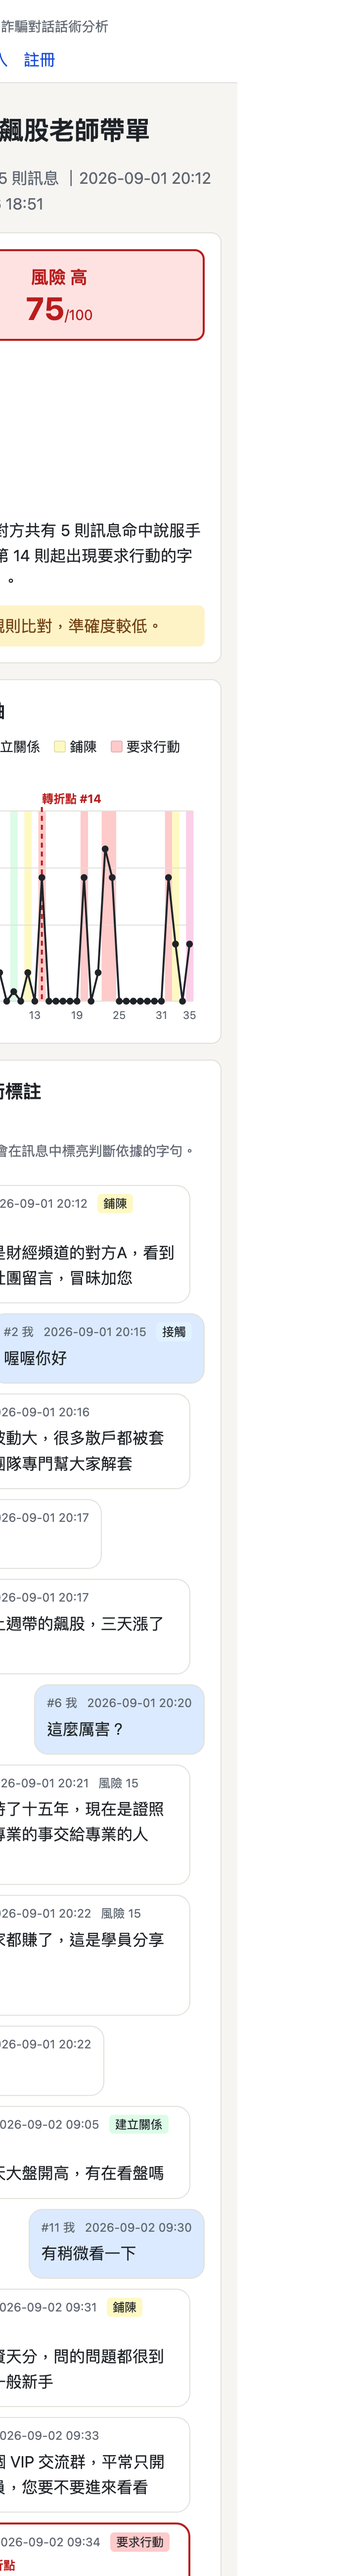
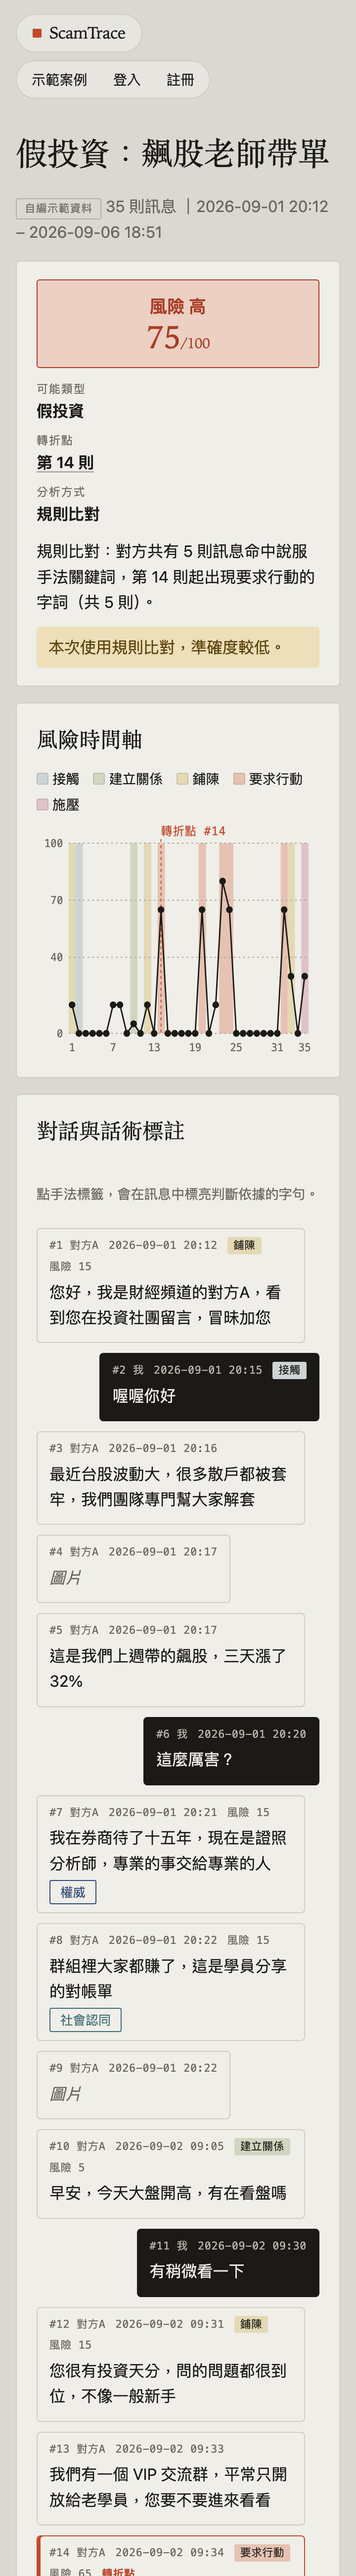
介面改為 Antimetal 風格
暖灰底色、襯線標題、等寬小標籤、虛線分隔與大地色系；首頁改為兩欄排版，
以示範案例的實際風險曲線與標註為主視覺；手法顏色改為同色系；更新首頁與結果頁截圖。

diff --git a/static/style.css b/static/style.css
@@ -194,3 +194,176 @@ label.radio, label.check { display: flex; gap: 8px; align-items: center; margin-
   .bubble { max-width: 95%; }
   .hero h1 { font-size: 1.6rem; }
 }
+
+/* ==========================================================
+   介面風格：參考 Antimetal
+   暖灰石材底色、襯線標題與內文、等寬小標籤、細線與虛線分隔、
+   大地色（鐵鏽橘、橄欖綠、芥末黃）為重點色、黑色小膠囊按鈕
+   ========================================================== */
+:root {
+  --bg: #d9d8d1;
+  --surface: #e7e6e0;
+  --paper: #efeee8;
+  --text: #1c1a17;
+  --muted: #6a675f;
+  --line: #bdbbb2;
+  --dash: #b3b1a8;
+  --accent: #b8442a;
+  --ink: #1c1a17;
+  --rust: #c2492b;
+  --olive: #6f7430;
+  --mustard: #c99419;
+  --danger: #b8442a;
+  --low: #5d6328; --low-bg: #dfe0c8;
+  --mid: #8a6410; --mid-bg: #ecdfb9;
+  --high: #a83c23; --high-bg: #ecd0c4;
+  --self-bubble: #1c1a17;
+  --other-bubble: #efeee8;
+  --code-bg: #d3d1c8;
+  --stage-contact: #cdd4d4;
+  --stage-rapport: #d2d6c0;
+  --stage-setup: #e3d9b4;
+  --stage-action: #e6c2b2;
+  --stage-pressure: #dfc3c9;
+  --radius: 4px;
+  --serif: "Iowan Old Style", "Songti TC", "Noto Serif TC", "PMingLiU", Georgia, serif;
+  --mono: "SF Mono", ui-monospace, Menlo, Consolas, monospace;
+  font-family: "Inter", system-ui, -apple-system, "PingFang TC", "Noto Sans TC", sans-serif;
+}
+body { background: var(--bg); color: var(--text); }
+a { color: var(--text); text-decoration-color: var(--dash); text-underline-offset: 3px; }
+a:hover { color: var(--accent); }
+h1, h2, h3, .brand, .kpi-value, .risk-badge .risk-score, .error-code, .lead { font-family: var(--serif); font-weight: 400; letter-spacing: -.01em; }
+h1 { font-size: 2rem; }
+h2 { font-size: 1.35rem; }
+.label, .eyebrow, .mono, .table th, .kpi-label, .summary-facts dt, .section-label {
+  font-family: var(--mono); font-size: .72rem; letter-spacing: .08em; text-transform: uppercase; color: var(--muted); font-weight: 400; }
+.label { margin: 0 0 8px; }
+
+/* 導覽列：左品牌、右連結，各自一顆淺色膠囊 */
+.topbar { background: transparent; border: 0; padding: 14px 16px 0; }
+.nav { padding: 0; max-width: 1120px; }
+.brand, .nav-links { background: #e6e5df; border: 1px solid #cfcdc5; border-radius: 999px; }
+.brand { padding: 5px 16px; font-size: 1.05rem; align-items: center; gap: 8px; }
+.brand-dot { width: 9px; height: 9px; border-radius: 1px; background: var(--rust); flex: none; }
+.brand span:not(.brand-dot) { font-family: var(--mono); font-size: .68rem; letter-spacing: .06em; color: var(--muted); }
+.nav-links { padding: 3px; gap: 2px; }
+.nav-links a, .nav-links .linklike { color: var(--text); text-decoration: none; font-size: .88rem; padding: 4px 12px; border-radius: 999px; }
+.nav-links a:hover, .nav-links .linklike:hover { background: #d6d4cc; color: var(--text); }
+.nav-links a:last-of-type:not(:only-of-type) { }
+.footer { border-top: 1px dashed var(--dash); color: var(--muted); font-size: .85rem; }
+
+/* 卡片：淺色平面，細框，不用陰影 */
+.card { background: var(--paper); border: 1px solid #cfcdc5; border-radius: var(--radius); box-shadow: none; padding: 18px 20px; }
+
+/* 按鈕：黑色小膠囊；次要按鈕為四角框線 */
+.btn { background: var(--ink); color: #f3f2ec; border-radius: 999px; padding: 8px 18px; font-size: .9rem; font-weight: 500; }
+.btn:hover { filter: none; background: #3a3631; color: #fff; }
+.btn.secondary, .btn.bracket { position: relative; background: transparent; color: var(--ink); border: 0; border-radius: 0; box-shadow: none;
+  background-image:
+    linear-gradient(var(--ink), var(--ink)), linear-gradient(var(--ink), var(--ink)),
+    linear-gradient(var(--ink), var(--ink)), linear-gradient(var(--ink), var(--ink)),
+    linear-gradient(var(--ink), var(--ink)), linear-gradient(var(--ink), var(--ink)),
+    linear-gradient(var(--ink), var(--ink)), linear-gradient(var(--ink), var(--ink));
+  background-repeat: no-repeat;
+  background-size: 6px 1px, 1px 6px, 6px 1px, 1px 6px, 6px 1px, 1px 6px, 6px 1px, 1px 6px;
+  background-position: left top, left top, right top, right top, left bottom, left bottom, right bottom, right bottom; }
+.btn.secondary:hover, .btn.bracket:hover { background-color: #cfcdc5; color: var(--ink); }
+.btn.danger { background: var(--danger); }
+.btn.small { padding: 4px 12px; font-size: .82rem; }
+.linklike { color: var(--text); }
+input[type=text], input:not([type]), input[type=password], input[type=file], textarea, select {
+  border-radius: 3px; border-color: #c4c2b9; background: #f3f2ed; }
+input:focus, textarea:focus, select:focus { outline: none; border-color: var(--ink); box-shadow: 0 0 0 3px #1c1a1720; }
+:focus-visible { outline: 2px solid var(--rust); outline-offset: 2px; }
+.flash, .notice { border-radius: 3px; }
+.notice { background: var(--mid-bg); color: #5e450c; }
+.pill { background: transparent; border: 1px solid var(--dash); border-radius: 2px; color: var(--muted); font-family: var(--mono); font-size: .68rem; letter-spacing: .05em; }
+.level { border-radius: 2px; font-weight: 500; }
+.code { background: var(--code-bg); border-radius: 2px; }
+
+/* 首頁 */
+.intro { display: grid; grid-template-columns: minmax(0, 1fr) minmax(0, 1fr); gap: 48px; align-items: center; padding: 56px 0 56px; }
+.intro h1 { font-size: 2.6rem; line-height: 1.2; margin: 0 0 16px; }
+.lead { font-size: 1.15rem; line-height: 1.65; color: #45423c; margin: 0; }
+.hero-actions { margin-top: 28px; gap: 14px; }
+.intro-chart { margin: 0; }
+.intro-chart svg { width: 100%; height: auto; display: block; }
+.intro-chart .ax line { stroke: #8f8c83; stroke-width: 1; stroke-dasharray: 2 3; }
+.intro-chart .ax .grid { stroke: #b9b7ae; }
+.intro-chart .ax text { font-family: var(--mono); font-size: 10px; fill: #77746b; }
+.intro-chart .ax-title { letter-spacing: .1em; }
+.intro-chart .curve { fill: none; stroke: var(--ink); stroke-width: 1.4; stroke-linejoin: round; }
+.intro-chart .tp-line { stroke: var(--rust); stroke-width: 1; stroke-dasharray: 3 3; }
+.intro-chart .tp-dot { fill: var(--rust); }
+.intro-chart .peak-dot { fill: var(--olive); }
+.chip rect { stroke: none; }
+.chip text { font-family: var(--mono); font-size: 10.5px; letter-spacing: .06em; }
+.chip.dark rect { fill: var(--ink); } .chip.dark text { fill: #f3f2ec; }
+.chip.light rect { fill: var(--paper); } .chip.light text { fill: var(--olive); }
+.intro-chart figcaption { font-size: .85rem; color: var(--muted); margin-top: 6px; display: flex; gap: 10px; align-items: baseline; flex-wrap: wrap; }
+.intro-chart figcaption .mono { white-space: nowrap; }
+
+.split { display: grid; grid-template-columns: minmax(0, 1fr) minmax(0, 1fr); gap: 48px; border-top: 1px dashed var(--dash); padding: 40px 0; }
+.split h2 { font-size: 1.8rem; line-height: 1.25; margin: 0; }
+.sample { display: flex; flex-direction: column; gap: 10px; }
+.sample-msg { align-self: flex-start; max-width: 95%; background: var(--paper); border: 1px solid #cfcdc5; border-radius: 3px; padding: 8px 12px; font-size: .95rem; line-height: 1.5; }
+.sample-msg .tag { margin-left: 6px; cursor: default; font-size: .72rem; }
+.sample-msg.turning { border-color: var(--rust); box-shadow: inset 3px 0 0 var(--rust); }
+.sample-meta { display: block; font-family: var(--mono); font-size: .68rem; letter-spacing: .05em; color: var(--muted); }
+.sample-meta b { color: var(--rust); font-weight: 400; }
+.flow-list { list-style: none; counter-reset: s; padding: 0; margin: 0; display: flex; flex-direction: column; gap: 18px; }
+.flow-list li { counter-increment: s; color: #45423c; padding-left: 44px; position: relative; }
+.flow-list li::before { content: counter(s, decimal-leading-zero); position: absolute; left: 0; top: 2px; font-family: var(--mono); font-size: .75rem; color: var(--rust); letter-spacing: .06em; }
+.flow-list b { display: block; color: var(--text); font-family: var(--serif); font-weight: 400; font-size: 1.15rem; margin-bottom: 2px; }
+.dark-card { background: #1c1a17; color: #d6d3cb; padding: 26px 28px; border-radius: 2px; }
+.dark-card ul { margin: 0; padding-left: 1.1em; display: flex; flex-direction: column; gap: 8px; font-size: .95rem; }
+.dark-card li::marker { color: var(--mustard); }
+
+.demo-list { list-style: none !important; padding: 0 !important; margin: 0; }
+.demo-list li { border-bottom: 1px dashed var(--dash); }
+.demo-list li:first-child { border-top: 1px dashed var(--dash); }
+.demo-row { display: grid; grid-template-columns: minmax(0, 1fr) auto; gap: 2px 16px; align-items: center; padding: 11px 2px; color: inherit; text-decoration: none; }
+.demo-row:hover .demo-title { color: var(--accent); }
+.demo-title { font-family: var(--serif); font-size: 1.05rem; }
+.demo-meta { color: var(--muted); font-size: .82rem; grid-column: 1; grid-row: 2; }
+.demo-row .level { grid-column: 2; grid-row: 1 / 3; min-width: 7em; text-align: center; }
+.demo-list + .small { margin-top: 10px; }
+
+/* 登入、註冊 */
+.auth-page .narrow { margin-top: 9vh; padding: 30px 28px; }
+.auth-page .btn { width: 100%; padding: 10px; }
+
+/* 結果頁 */
+.risk-badge { border-radius: 3px; border-width: 1px; }
+.timeline .axis line { stroke-dasharray: 2 3; stroke: #a9a79e; }
+.timeline .axis text { font-family: var(--mono); }
+.timeline .risk-line { stroke: var(--ink); stroke-width: 1.5; }
+.timeline .pt { fill: var(--ink); }
+.timeline .pt.active { fill: var(--rust); }
+.timeline .turning-line { stroke: var(--rust); stroke-width: 1; stroke-dasharray: 3 3; }
+.timeline .turning-text { fill: var(--rust); font-family: var(--mono); font-weight: 400; letter-spacing: .05em; }
+.timeline .hover-line { stroke: var(--rust); }
+.timeline-tip { background: var(--ink); border-radius: 2px; }
+.bubble { border-color: #cfcdc5; border-radius: 4px; }
+.bubble.self { color: #eeece5; border-color: var(--ink); }
+.bubble.self .bubble-meta, .bubble.self .bubble-text.non-text { color: #b9b5ab; }
+.bubble.turning { border: 1px solid var(--rust); box-shadow: inset 3px 0 0 var(--rust); }
+.bubble.flash-target { box-shadow: 0 0 0 3px #c2492b55; }
+.bubble-meta { font-family: var(--mono); font-size: .68rem; letter-spacing: .03em; }
+.bubble-text mark { background: #e8c97a; }
+.stage-chip { border-radius: 2px; }
+.tag { border-radius: 2px; background: transparent; border-width: 1px; }
+.bar-track { background: #cfcdc5; border-radius: 1px; height: 8px; }
+.bar { border-radius: 1px; }
+.table th, .table td { border-bottom: 1px dashed var(--dash); }
+
+@media (max-width: 760px) {
+  .intro, .split { grid-template-columns: 1fr; gap: 20px; }
+  .intro { padding: 28px 0; }
+  .intro h1 { font-size: 1.9rem; }
+  .split { padding: 28px 0; }
+  .split h2 { font-size: 1.4rem; }
+  .brand span:not(.brand-dot) { display: none; }
+  .auth-page .narrow { margin-top: 4vh; }
+}

diff --git a/templates/index.html b/templates/index.html
@@ -1,34 +1,70 @@
 {% extends "base.html" %}
 {% block content %}
-<section class="hero">
-  <h1>看出對話在哪裡開始變調</h1>
-  <p>詐騙很少只有一則訊息，而是經過數天的聊天、建立信任，才轉到要求匯款或提供資料。
-     ScamTrace 分析整段 LINE 對話，逐則標出對方使用的說服手法，畫出風險時間軸，並指出開始要求金錢或資料的「轉折點」。</p>
-  <div class="hero-actions">
-    {% if g.user %}<a class="btn" href="{{ url_for('case_new') }}">上傳對話</a>
-    {% else %}<a class="btn" href="{{ url_for('auth.register') }}">註冊後開始使用</a>{% endif %}
-    <a class="btn secondary" href="{{ url_for('demo_list') }}">先看示範案例</a>
+<section class="intro">
+  <div class="intro-text">
+    <h1>逐則標出詐騙對話裡的<br>說服手法</h1>
+    <p class="lead">上傳整段 LINE 對話，系統會標出對方每則訊息用了哪種說服手法、目前在哪個階段，並指出開始要求金錢或資料的那一則。</p>
+    <div class="hero-actions">
+      {% if g.user %}<a class="btn" href="{{ url_for('case_new') }}">上傳對話</a>
+      {% else %}<a class="btn" href="{{ url_for('auth.register') }}">註冊後開始使用</a>{% endif %}
+      <a class="btn bracket" href="{{ url_for('demo_list') }}">看示範案例</a>
+    </div>
+  </div>
+
+  {# 示範對話「假投資：飆股老師帶單」35 則訊息的實際風險分數（規則比對），座標由資料庫數值換算 #}
+  <figure class="intro-chart">
+    <svg viewBox="0 0 540 300" role="img" aria-label="示範案例的風險變化：第 14 則為轉折點，第 23 則風險最高">
+      <g class="ax">
+        <line x1="40" y1="30" x2="40" y2="250"/><line x1="40" y1="250" x2="500" y2="250"/>
+        <line class="grid" x1="40" y1="96" x2="500" y2="96"/>
+        <text x="32" y="254" text-anchor="end">0</text><text x="32" y="100" text-anchor="end">70</text><text x="32" y="34" text-anchor="end">100</text>
+        <text x="40" y="272">#1</text><text x="500" y="272" text-anchor="end">#35</text>
+        <text class="ax-title" x="270" y="290" text-anchor="middle">訊息序號</text>
+        <text class="ax-title" x="40" y="16" text-anchor="middle">風險</text>
+      </g>
+      <polyline class="curve" points="40.0,217.0 53.5,250.0 67.1,250.0 80.6,250.0 94.1,250.0 107.6,250.0 121.2,217.0 134.7,217.0 148.2,250.0 161.8,239.0 175.3,250.0 188.8,217.0 202.4,250.0 215.9,107.0 229.4,250.0 242.9,250.0 256.5,250.0 270.0,250.0 283.5,250.0 297.1,107.0 310.6,250.0 324.1,217.0 337.6,74.0 351.2,107.0 364.7,250.0 378.2,250.0 391.8,250.0 405.3,250.0 418.8,250.0 432.4,250.0 445.9,250.0 459.4,107.0 472.9,184.0 486.5,250.0 500.0,184.0"/>
+      <line class="tp-line" x1="215.9" y1="30" x2="215.9" y2="250"/>
+      <circle class="tp-dot" cx="215.9" cy="107" r="4.5"/>
+      <circle class="peak-dot" cx="337.6" cy="74" r="4"/>
+      <g class="chip dark"><rect x="96" y="40" width="112" height="22"/><text x="152" y="55" text-anchor="middle">轉折點 #14</text></g>
+      <g class="chip light"><rect x="350" y="40" width="112" height="22"/><text x="406" y="55" text-anchor="middle">最高風險 #23・80</text></g>
+    </svg>
+    <figcaption><span class="mono">示範案例 01</span>假投資：飆股老師帶單，35 則訊息（規則比對）</figcaption>
+  </figure>
+</section>
+
+<section class="split">
+  <div><p class="label">01 · 標註</p><h2>每則訊息標出手法與依據</h2></div>
+  <div class="sample">
+    <div class="sample-msg"><span class="sample-meta">#7 對方A</span>我在券商待了十五年，現在是證照分析師，專業的事交給專業的人<span class="tag" style="--tag:#2e4b78">權威</span></div>
+    <div class="sample-msg"><span class="sample-meta">#8 對方A</span>群組裡大家都賺了，這是學員分享的對帳單<span class="tag" style="--tag:#3d6b76">社會認同</span></div>
+    <div class="sample-msg turning"><span class="sample-meta">#14 對方A　<b>要求行動・轉折點</b></span>加我助理的 LINE ID：<span class="code">[LINEID1]</span>，她會拉您進群</div>
   </div>
 </section>
 
-<section class="steps">
-  <div class="card step"><span class="step-no">1</span><h2>上傳</h2><p>上傳 LINE 匯出的 .txt 聊天紀錄，或直接貼上文字，並選出哪個名字是你。</p></div>
-  <div class="card step"><span class="step-no">2</span><h2>確認去識別化</h2><p>電話、帳號、身分證等個資先在本機換成代號。你可以檢查、補遮，確認後才送出。</p></div>
-  <div class="card step"><span class="step-no">3</span><h2>看分析</h2><p>每則訊息的說服手法與依據字句、詐騙階段、風險時間軸與轉折點。</p></div>
+<section class="split">
+  <div><p class="label">02 · 流程</p><h2>使用流程</h2></div>
+  <ol class="flow-list">
+    <li><b>上傳</b>LINE 匯出的 .txt 聊天紀錄，或直接貼上文字，並選出哪個名字是你。</li>
+    <li><b>確認去識別化</b>電話、帳號、身分證等個資先在本機換成代號，你可以檢查、補遮，確認後才送出。</li>
+    <li><b>看分析</b>每則訊息的說服手法與依據字句、詐騙階段、風險時間軸與轉折點。</li>
+  </ol>
 </section>
 
-<section class="card privacy">
-  <h2>隱私怎麼處理</h2>
-  <ul>
-    <li>原始對話只在上傳那一次處理，不寫入資料庫，也不送出本機。</li>
-    <li>資料庫與語言模型只看得到遮罩後的文字；同一個帳號會一直使用同一個代號，方便判斷是否反覆出現。</li>
-    <li>金額與網址的網域會保留，因為它們是判斷詐騙的重要線索。</li>
-    <li>你可以隨時刪除自己的案例，相關訊息、標註與回饋會一併刪除。</li>
-  </ul>
+<section class="split">
+  <div><p class="label">03 · 隱私</p><h2>隱私怎麼處理</h2></div>
+  <div class="dark-card">
+    <ul>
+      <li>原始對話只在上傳那一次處理，不寫入資料庫，也不送出本機。</li>
+      <li>資料庫與語言模型只看得到遮罩後的文字；同一個帳號會一直使用同一個代號，方便判斷是否反覆出現。</li>
+      <li>金額與網址的網域會保留，因為它們是判斷詐騙的重要線索。</li>
+      <li>你可以隨時刪除自己的案例，相關訊息、標註與回饋會一併刪除。</li>
+    </ul>
+  </div>
 </section>
 
-<section>
-  <h2>示範案例</h2>
-  {% include "_demo_cards.html" %}
+<section class="split">
+  <div><p class="label">04 · 示範</p><h2>示範案例</h2></div>
+  <div>{% include "_demo_cards.html" %}</div>
 </section>
 {% endblock %}

diff --git a/templates/_demo_cards.html b/templates/_demo_cards.html
@@ -1,14 +1,13 @@
-{# 示範案例卡片；需要變數 demos #}
-<div class="demo-grid">
+{# 示範案例清單；需要變數 demos #}
+<ul class="demo-list">
   {% for c in demos %}
-    <a class="card demo-card" href="{{ url_for('case_detail', case_id=c.id) }}">
-      <span class="pill">自編示範資料</span>
-      <h3>{{ c.title }}</h3>
-      <p class="muted">{{ c.message_count }} 則訊息
-        {% if c.scam_code %}｜{{ SCAM_TYPE_NAMES.get(c.scam_code) }}{% endif %}</p>
+    <li><a class="demo-row" href="{{ url_for('case_detail', case_id=c.id) }}">
+      <span class="demo-title">{{ c.title }}</span>
+      <span class="demo-meta">{{ c.message_count }} 則訊息{% if c.scam_code %}・{{ SCAM_TYPE_NAMES.get(c.scam_code) }}{% endif %}</span>
       {% if c.risk_level %}<span class="level level-{{ c.risk_level }}">風險 {{ RISK_LEVEL_NAMES[c.risk_level] }}・{{ c.overall_risk }}</span>{% endif %}
-    </a>
+    </a></li>
   {% else %}
-    <p class="muted">目前沒有示範案例。</p>
+    <li class="muted">目前沒有示範案例。</li>
   {% endfor %}
-</div>
+</ul>
+<p class="small muted">以上皆為自編示範資料，情節參考 165 全民防騙網公開的詐騙手法說明。</p>

diff --git a/templates/base.html b/templates/base.html
@@ -7,10 +7,10 @@
   <link rel="stylesheet" href="{{ url_for('static', filename='style.css') }}">
   <meta name="csrf-token" content="{{ csrf_token() }}">
 </head>
-<body>
+<body class="{% block body_class %}{% endblock %}">
   <header class="topbar">
     <nav class="nav">
-      <a class="brand" href="{{ url_for('index') }}">ScamTrace<span>詐騙對話話術分析</span></a>
+      <a class="brand" href="{{ url_for('index') }}"><span class="brand-dot" aria-hidden="true"></span>ScamTrace<span>詐騙對話話術分析</span></a>
       <div class="nav-links">
         <a href="{{ url_for('demo_list') }}">示範案例</a>
         {% if g.user %}

diff --git a/templates/login.html b/templates/login.html
@@ -1,7 +1,8 @@
 {% extends "base.html" %}
 {% block title %}登入{% endblock %}
+{% block body_class %}auth-page{% endblock %}
 {% block content %}
-<section class="card narrow">
+<section class="card narrow sheet">
   <h1>登入</h1>
   <form method="post">
     <input type="hidden" name="_csrf" value="{{ csrf_token() }}">

diff --git a/templates/register.html b/templates/register.html
@@ -1,7 +1,8 @@
 {% extends "base.html" %}
 {% block title %}註冊{% endblock %}
+{% block body_class %}auth-page{% endblock %}
 {% block content %}
-<section class="card narrow">
+<section class="card narrow sheet">
   <h1>註冊</h1>
   <form method="post">
     <input type="hidden" name="_csrf" value="{{ csrf_token() }}">

diff --git a/taxonomy.py b/taxonomy.py
@@ -6,21 +6,21 @@ seed.py 用它建立查找表，analyzer.py 用它寫提示詞與驗證輸出，
 # (code, 中文, 英文原名, 定義與典型說法, 顏色)
 TACTICS = [
     ("reciprocity", "互惠", "Reciprocation",
-     "先給好處再要求回報：先送小禮、先讓你小賺一筆、「我幫了你，你也幫我一下」", "#b45309"),
+     "先給好處再要求回報：先送小禮、先讓你小賺一筆、「我幫了你，你也幫我一下」", "#9a6a22"),
     ("commitment", "承諾一致", "Commitment and Consistency",
-     "先要求小承諾再逐步加碼：「你上次都說好了」「都已經投了，不差這一筆」", "#7c3aed"),
+     "先要求小承諾再逐步加碼：「你上次都說好了」「都已經投了，不差這一筆」", "#6a5a8c"),
     ("social_proof", "社會認同", "Social Proof",
-     "以他人行為證明可信：「群組裡大家都賺了」、截圖別人的獲利", "#0369a1"),
+     "以他人行為證明可信：「群組裡大家都賺了」、截圖別人的獲利", "#3d6b76"),
     ("liking", "喜好", "Liking",
-     "讓對方喜歡自己：大量讚美、裝熟、展示共同興趣、曖昧示好", "#db2777"),
+     "讓對方喜歡自己：大量讚美、裝熟、展示共同興趣、曖昧示好", "#a5506f"),
     ("authority", "權威", "Authority",
-     "以身分或專業取信：自稱分析師、檢察官、銀行專員、出示證件照片", "#1d4ed8"),
+     "以身分或專業取信：自稱分析師、檢察官、銀行專員、出示證件照片", "#2e4b78"),
     ("scarcity", "稀少性", "Scarcity",
-     "強調機會有限：「名額只剩今天」「錯過就沒了」「限時優惠」", "#c2410c"),
+     "強調機會有限：「名額只剩今天」「錯過就沒了」「限時優惠」", "#c2492b"),
     ("unity", "團結", "Unity",
-     "強調共同身分：「我們是自己人」「同鄉」「家人才跟你說」", "#047857"),
+     "強調共同身分：「我們是自己人」「同鄉」「家人才跟你說」", "#5c6a2a"),
     ("urgency_threat", "威脅恐嚇", "Threat / Intimidation (non-Cialdini)",
-     "以損失或法律責任恐嚇：帳戶將被凍結、涉及洗錢、不配合就通緝", "#b91c1c"),
+     "以損失或法律責任恐嚇：帳戶將被凍結、涉及洗錢、不配合就通緝", "#8a2c20"),
 ]
 
 # (code, 名稱, 說明)
